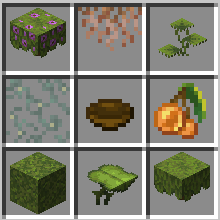
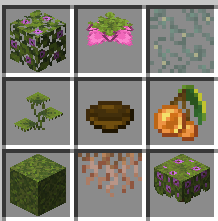
Achievements update

diff --git a/bingo-data.js b/bingo-data.js
@@ -14,7 +14,7 @@ const bingoTiles = [{
     {
         title: 'The Cutest Predator',
         shortDescription: 'Catch an axolotl in a bucket',
-        longDescription: 'Catch an axolotl by right clicking it with a bucket. Axolotls can be found in the Lush cave biome. While you’re here you can make good progress on the following advancements: @11, @15, @16, @17, @22',
+        longDescription: 'Catch an axolotl by right clicking it with a bucket. Axolotls can be found in the Lush cave biome. While you’re here you can make good progress on the following advancements: @11, @15, @16, @22',
         tileBackground: 'axolotl_bucket.png'
     },
     {
@@ -62,7 +62,7 @@ const bingoTiles = [{
     {
         title: 'Frog hopper',
         shortDescription: 'Keep off the ground for 15 secs while hopping on dripleaf plants',
-        longDescription: 'You must keep from touching the ground for 15 secs by only standing on Big Dripleaf plants which can be found in the Lush cave biome. Redstone might help with this one 👀. While you’re in the Lush Caves you can make good progress on the following advancements: @3, @15, @16, @17, @22',
+        longDescription: 'You must keep from touching the ground for 15 secs by only standing on Big Dripleaf plants which can be found in the Lush cave biome. Redstone might help with this one 👀. While you’re in the Lush Caves you can make good progress on the following advancements: @3, @15, @16, @22',
         tileBackground: 'big_dripleaf_top.png'
     },
     {
@@ -86,22 +86,21 @@ const bingoTiles = [{
     {
         title: 'Cave Stew',
         shortDescription: 'Craft cave stew',
-        longDescription: 'Cave stew is a custom item added for this mini game. This recipe requires the following ingredients: glow lichen, hanging roots, azalea, flowering azalea, glowberry, big drip leaf, small drip leaf, and a moss block. Put them all together in the crafting table with a bowl. Drink it for a special potion effect 👀. While you’re in the Lush Caves you can make good progress on the following advancements: @3, @11, @16, @17, @22',
+        longDescription: 'Cave stew is a custom item added for this mini game. This recipe requires the following ingredients: glow lichen, hanging roots, azalea, flowering azalea, glowberry, big drip leaf, small drip leaf, and a moss block. Put them all together in the crafting table with a bowl. Drink it for a special potion effect 👀. While you’re in the Lush Caves you can make good progress on the following advancements: @3, @11, @16, @22',
         imageDescription: 'cavestew.png',
         tileBackground: 'suspicious_stew.png'
     },
     {
         title: 'Lush Gardener',
         shortDescription: 'Put a flowering azalea into a pot',
-        longDescription: 'Right click a flower pot with a flowering azalea plant. This plant can be found in the Lush Cave biome. While you’re here you can make good progress on the following advancements: @3, @11, @15, @17, @22',
+        longDescription: 'Right click a flower pot with a flowering azalea plant. This plant can be found in the Lush Cave biome. While you’re here you can make good progress on the following advancements: @3, @11, @15, @22',
         tileBackground: 'flowering_azalea_top.png'
     },
     {
-        title: 'Forbidden flower',
-        shortDescription: 'Craft a spore blossom',
-        longDescription: 'The spore blossom has been given a custom crafting recipe for this mini game since it is currently unantable in survival. Craft with a glow berry and 4 magenta dye in the shape of a flower. Glow berries can be found in the Lush Cave biome. While you’re here you can make good progress on the following advancements: @3, @11, @15, @16, @22',
-        imageDescription: 'sporeblossom.png',
-        tileBackground: 'spore_blossom.png'
+        title: 'Archaeologist',
+        shortDescription: 'Obtain an ancient artifact from an archaeology site',
+        longDescription: 'Archeology sites have been added for this mini game. Find an archaeology site in the center of a plains or desert village. You will find an ancient artifact within the site.',
+        tileBackground: 'totem_of_undying.png'
     },
     {
         title: 'I sense an illegal item',
@@ -144,7 +143,7 @@ const bingoTiles = [{
     {
         title: 'Haven’t seen the light in ages',
         shortDescription: 'Craft a tinted glass pane',
-        longDescription: 'Tinted glass panes are a custom item added for this mini game. Tinted glass can be crafted with 6 tinted glass blocks. You will need an amethyst shard to craft a tinted glass block. Amethyst shards can be found underground in geodes. Mine an amethyst cluster with any non silk touch pickaxe. While you’re here you might as well collect an extra shard for advancement number @10!',
+        longDescription: 'Tinted glass panes are a custom item added for this mini game (Although their functionality hasn’t been coded, sorry). Tinted glass can be crafted with 6 tinted glass blocks (You will actually just get black stained glass that’s renamed). You will need an amethyst shard to craft a tinted glass block. Amethyst shards can be found underground in geodes. Mine an amethyst cluster with any non silk touch pickaxe. While you’re here you might as well collect an extra shard for advancement number @10!',
         tileBackground: 'black_stained_glass.png'
     },
 ];
